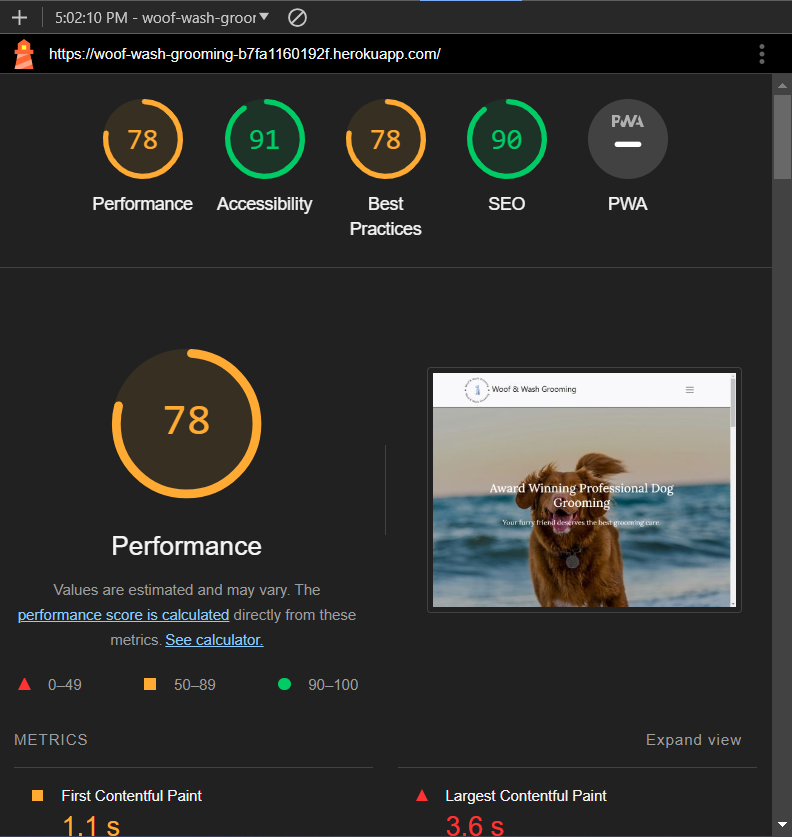
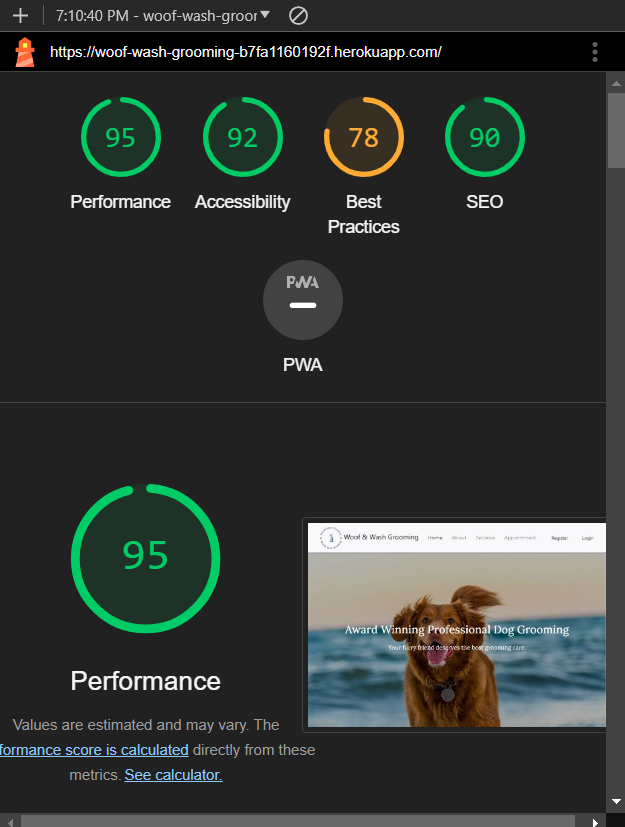
feat: add lighthouse audits

diff --git a/grooming_service/templates/grooming_service/edit_profile.html b/grooming_service/templates/grooming_service/edit_profile.html
@@ -2,7 +2,7 @@
 {% load static %}
 {% block content %}
 <div class="container-xl px-4 mt-4">
-    <a href="{% url 'profile' %}"><i class="fa-solid fa-caret-left"></i>Back to Profile</a>
+    <a href="{% url 'profile' %}" class="back-to-profile"><i class="fa-solid fa-caret-left"></i>Back to Profile</a>
     <!-- Display form submission messages -->
     {% if messages %}
         {% for message in messages %}

diff --git a/static/css/style.css b/static/css/style.css
@@ -518,6 +518,11 @@ button {
 .close {
     text-decoration: none;
 }
+/* Back to profile button */
+.back-to-profile {
+    color: #000;
+}
+
 
 @media (max-width: 768px) {
     .profile-card .profile {

diff --git a/staticfiles/css/style.css b/staticfiles/css/style.css
@@ -518,6 +518,11 @@ button {
 .close {
     text-decoration: none;
 }
+/* Back to profile button */
+.back-to-profile {
+    color: #000;
+}
+
 
 @media (max-width: 768px) {
     .profile-card .profile {

diff --git a/TESTING.md b/TESTING.md
@@ -79,3 +79,16 @@ I've tested my deployed project on multiple devices to check for responsiveness 
 | Tablet (DevTools) | ![screenshot](documentation/testing/responsiveness/responsive-tablet-home.png) | ![screenshot](documentation/testing/responsiveness/responsive-tablet-about.png) | ![screenshot](documentation/testing/responsiveness/responsive-tablet-services.png) | ![screenshot](documentation/testing/responsiveness/responsive-tablet-appointment.png) | ![screenshot](documentation/testing/responsiveness/responsive-tablet-profile.png) | ![screenshot](documentation/testing/responsiveness/responsive-tablet-edit-profile.png) | ![screenshot](documentation/testing/responsiveness/responsive-tablet-register.png) | ![screenshot](documentation/testing/responsiveness/responsive-tablet-login.png) | ![screenshot](documentation/testing/responsiveness/responsive-tablet-404.png)  | Works as expected |
 | Desktop | ![screenshot](documentation/testing/responsiveness/responsive-desktop-home.png) | ![screenshot](documentation/testing/responsiveness/responsive-desktop-about.png) | ![screenshot](documentation/testing/responsiveness/responsive-desktop-services.png) | ![screenshot](documentation/testing/responsiveness/responsive-desktop-appointment.png) | ![screenshot](documentation/testing/responsiveness/responsive-desktop-profile.png) | ![screenshot](documentation/testing/responsiveness/responsive-desktop-edit-profile.png) | ![screenshot](documentation/testing/responsiveness/responsive-desktop-register.png) | ![screenshot](documentation/testing/responsiveness/responsive-desktop-login.png) | ![screenshot](documentation/testing/responsiveness/responsive-desktop-404.png) | Works as expected |
 | iPhone 11 | ![screenshot](documentation/testing/responsiveness/responsive-iphone-home.png) | ![screenshot](documentation/testing/responsiveness/responsive-iphone-about.png) | ![screenshot](documentation/testing/responsiveness/responsive-iphone-services.png) | ![screenshot](documentation/testing/responsiveness/responsive-iphone-appointment.png) | ![screenshot](documentation/testing/responsiveness/responsive-iphone-profile.png) | ![screenshot](documentation/testing/responsiveness/responsive-iphone-edit-profile.png) | ![screenshot](documentation/testing/responsiveness/responsive-iphone-register.png) | ![screenshot](documentation/testing/responsiveness/responsive-iphone-login.png) | ![screenshot](documentation/testing/responsiveness/responsive-iphone-404.png) | Works as expected |
+
+## Lighthouse Audit
+
+I've tested my deployed project using the Lighthouse Audit tool to check for any major issues.
+
+| Page | Mobile                                                                         | Desktop | Notes |
+| --- |--------------------------------------------------------------------------------| --- | --- |
+| Home | ![screenshot](documentation/testing/lighthouse/lighthouse-home-mobile.png)     | ![screenshot](documentation/testing/lighthouse/lighthouse-home-desktop.png) | Slow response time due to large images and minor warnings due to third-party cookies (Cloudinary) |
+| About | ![screenshot](documentation/testing/lighthouse/lighthouse-about-mobile.png)    | ![screenshot](documentation/testing/lighthouse/lighthouse-about-desktop.png) | Slow response time due to large image and some minor warnings |
+| Services| ![screenshot](documentation/testing/lighthouse/lighthouse-services-mobile.png) | ![screenshot](documentation/testing/lighthouse/lighthouse-services-desktop.png) | HTTP/2 Errors appearing in the lighthouse validation due to heroku not supporting that version of the protocol. [See link](https://help.heroku.com/JAOCNZ25/does-heroku-have-plans-to-support-http-2) |
+| Register| ![screenshot](documentation/testing/lighthouse/lighthouse-register-mobile.png) | ![screenshot](documentation/testing/lighthouse/lighthouse-register-desktop.png) | Some warnings due to 3rd party plugins |
+| Login| ![screenshot](documentation/testing/lighthouse/lighthouse-login-mobile.png)    | ![screenshot](documentation/testing/lighthouse/lighthouse-login-login.png) | Some minor warnings |
+| Profile| ![screenshot](documentation/testing/lighthouse/lighthouse-profile-mobile.png)  | ![screenshot](documentation/testing/lighthouse/lighthouse-profile-login.png) | Some warnings due to 3rd party plugins |
